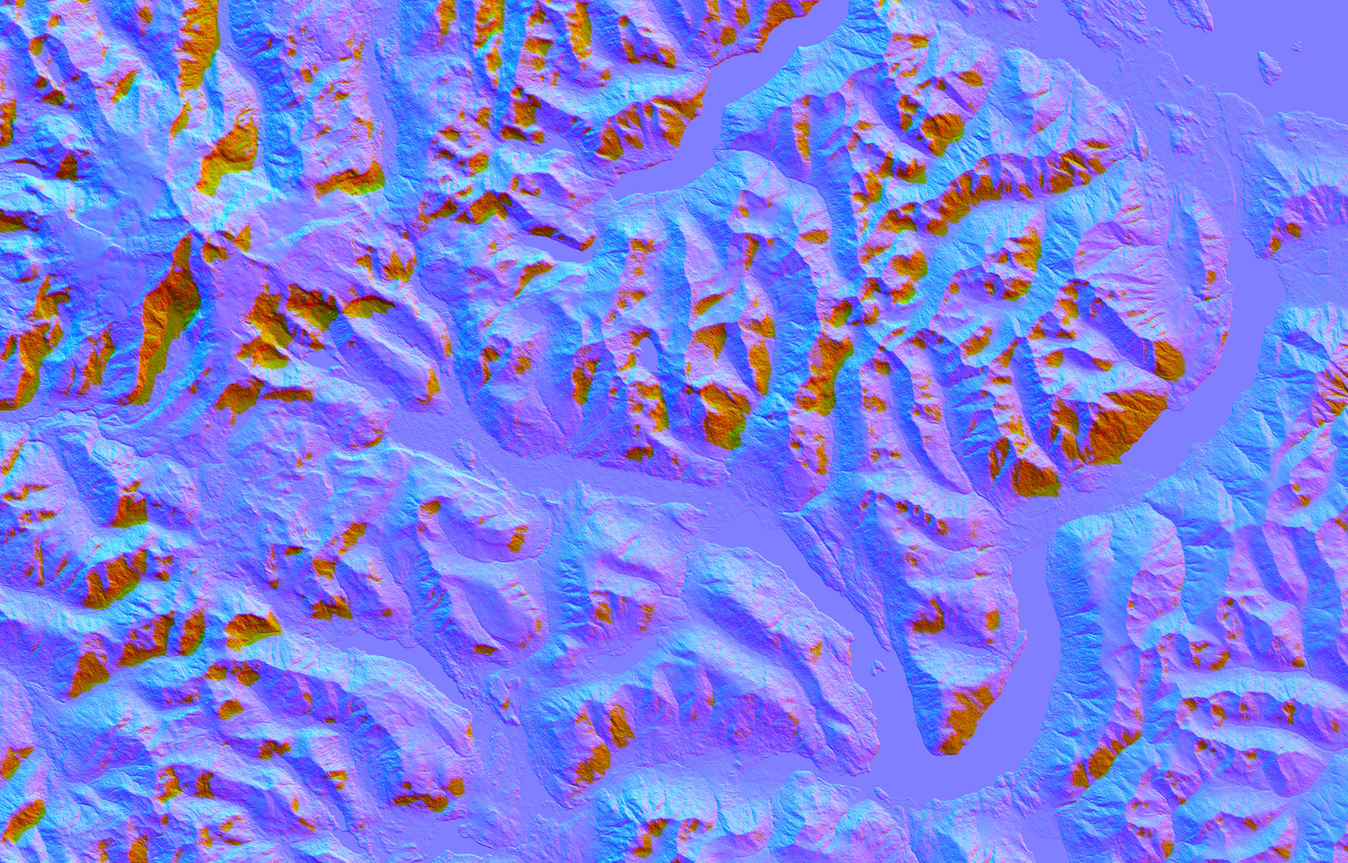
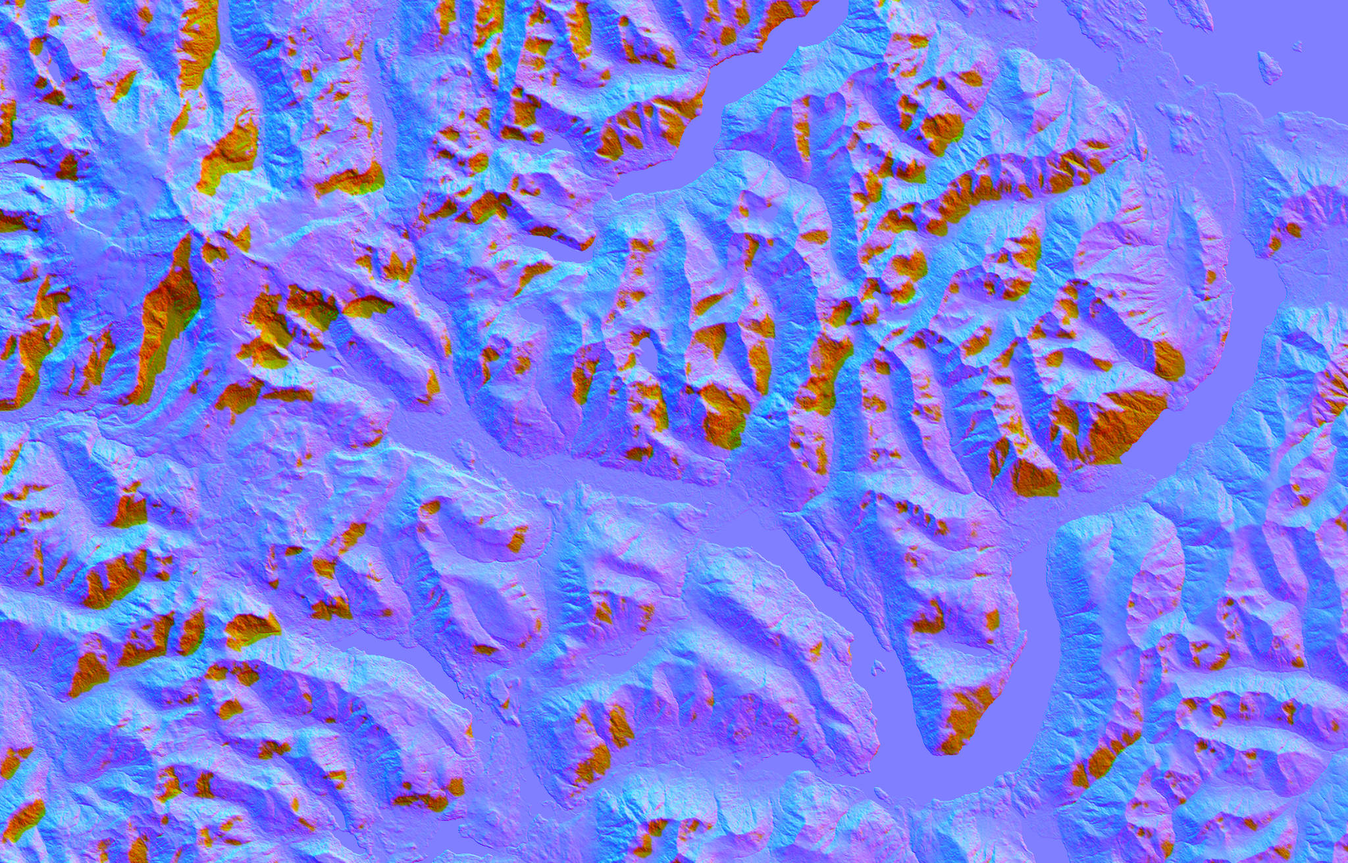
Cierre: etiquetas de marcadores dentro de la pantalla, normal map del celular más liviano, capturas de alta resolución e informe
Claude-Session: https://claude.ai/code/session_01M78LceY88YGMWiPb5B9gxp

diff --git a/js/hero.js b/js/hero.js
@@ -342,7 +342,9 @@ async function start() {
       v.copy(m.top).project(camera);
       const sx = (v.x * 0.5 + 0.5) * W, sy = (-v.y * 0.5 + 0.5) * H;
       const off = v.z > 1 || sx < 40 || sx > W - 40 || sy < 70 || sy > H - 40 || occluded(m);
-      m.el.style.transform = `translate(${sx}px,${sy}px)`;
+      const half = (m.w || (m.w = m.el.firstElementChild.offsetWidth)) / 2;   // la etiqueta no se sale de la pantalla
+      const lx = Math.min(W - half - 12, Math.max(half + 12, sx));
+      m.el.style.transform = `translate(${lx}px,${sy}px)`;
       m.el.style.opacity = off ? 0 : 1;
     }
     hero.style.setProperty('--p', shown.toFixed(3));

diff --git a/tools/terreno.py b/tools/terreno.py
@@ -226,7 +226,7 @@ def main():
     alb = (alb * 255).astype(np.uint8)
     nrm = np.stack([nx * .5 + .5, ny * .5 + .5, np.where(lake, 1.0, shadow)], -1)
     nrm = (np.clip(nrm, 0, 1) * 255).astype(np.uint8)
-    for lv, fac, qa, qn in [('', 1, 84, 80), ('-2048', 2, 84, 80), ('-1024', 4, 80, 82)]:
+    for lv, fac, qa, qn in [('', 1, 84, 80), ('-2048', 2, 82, 70), ('-1024', 4, 80, 82)]:
         A = Image.fromarray(alb); N = Image.fromarray(nrm)
         if fac > 1:
             A = A.resize((BW // fac, BH // fac), Image.LANCZOS); N = N.resize((BW // fac, BH // fac), Image.LANCZOS)

diff --git a/docs/investigacion-estetica.md b/docs/investigacion-estetica.md
@@ -126,8 +126,8 @@ Muestreada de la foto de referencia (cuantización de colores) y ajustada para c
 ### Fuentes
 - La historia oficial de la empresa cuenta que **a principios de los 80**, cuando la ropa outdoor era casi toda tostada, verde bosque o celeste, la línea se llenó de color: **cobalt, teal, French red, aloe, seafoam e iced mocha** ("We introduced cobalt, teal, French red, aloe, seafoam and iced mocha"). [Patagonia · Our History (sitio de Hong Kong; la página de EE. UU. estaba en mantenimiento)](https://www.patagonia.com.hk/pages/our-history)
 - El primer Retro Pile Cardigan (c. 1988) salió en **Natural / French Red**. [Proper Magazine · Fleece Progression](https://www.propermag.com/?p=103061)
-- En 1987 publicaron un ensayo, "The Question of Color", sobre el uso del violeta (fuente secundaria, no pude leer el texto). Resumen de búsqueda sobre [Grailed · historia de la marca](https://www.grailed.com/drycleanonly/patagonia-history).
-- Las camisetas de rugby de los 70 tenían unas 12 combinaciones de colores fuertes, según un ex empleado (fuente secundaria). [Grailed](https://www.grailed.com/drycleanonly/patagonia-history)
+- En 1987 habrían publicado un ensayo, "The Question of Color", sobre el uso del violeta: aparece en resúmenes de búsqueda, pero no pude leer la fuente original. **Sin verificar.**
+- Las camisetas de rugby de los 70 habrían tenido unas 12 combinaciones de colores fuertes, según un ex empleado citado en blogs de historia de la marca. **Sin verificar** (no pude abrir la nota original).
 - **Mostaza y naranja:** no encontré fuente de la marca con esos nombres. Los uso como colores de la época (catálogos y afiches outdoor de los 70) y lo dejo marcado así.
 
 Los nombres son de la marca; **los hex son aproximaciones mías**, ajustadas para que el texto que va encima pase AA. No hay hex oficiales publicados.
@@ -144,7 +144,7 @@ Los nombres son de la marca; **los hex son aproximaciones mías**, ajustadas par
 | `--espuma` | seafoam | `#93cdbd` | tinta | 9,32 |
 | `--moca` | iced mocha | `#a68b72` | tinta | 5,22 |
 | `--mostaza` | mostaza (época, sin fuente de marca) | `#d19a2a` | tinta | 6,66 |
-| `--purpura` | violeta (ensayo de 1987) | `#5a3d7d` | crema | 8,13 |
+| `--purpura` | violeta (ensayo de 1987, sin verificar) | `#5a3d7d` | crema | 8,13 |
 
 Variantes para texto sobre el fondo oscuro de la página: rojo `#ef7a62` (6,67), cobalto `#8fb0ee` (8,41), teal `#5cc2bf` (8,68), violeta `#c3a6e6` (8,67).
 

diff --git a/CHECKPOINTS.md b/CHECKPOINTS.md
@@ -33,3 +33,9 @@ Detalle de cada checkpoint y cómo volver: `docs/informe-noche.md` (sección "Ch
 | 2026-11-18 | `checkpoint/07-correcciones-listas` | Mosaico bien encuadrado, crédito del relieve abajo de la banda, botón de menú compacto que se esconde al bajar (celular), permisos de pesca como opcionales en Gastos. |
 | 2026-11-18 | `checkpoint/08-antes-titulo` | Estado después de las correcciones del 18/11, antes de cambiar la tipografía del título. |
 | 2026-11-18 | `checkpoint/08-titulo-listo` | Título de la portada y títulos grandes de secciones en Caprasimo (estilo Cooper Black, afiche de los 70). |
+| 2026-11-18 | `checkpoint/09-antes-alta-resolucion` | Título en Caprasimo; antes de la montaña en alta resolución. |
+| 2026-11-18 | `checkpoint/09-alta-resolucion-lista` · `10-antes-camara` | Copernicus GLO-30, texturas de 4096, LOD por bloques, carga progresiva. |
+| 2026-11-18 | `checkpoint/10-camara-lista` · `11-antes-pie` | Cámara suave con cierre en el Catedral y el Frey. |
+| 2026-11-18 | `checkpoint/11-pie-listo` · `12-antes-colores` | Pie de página. |
+| 2026-11-18 | `checkpoint/12-colores-listos` | Colores de época en bloques, parches, banda, pie e itinerario. |
+| 2026-11-18 | `checkpoint/13-alta-resolucion-cierre` | Estado final: etiquetas dentro de la pantalla, normal map del celular más liviano, capturas e informe. |
